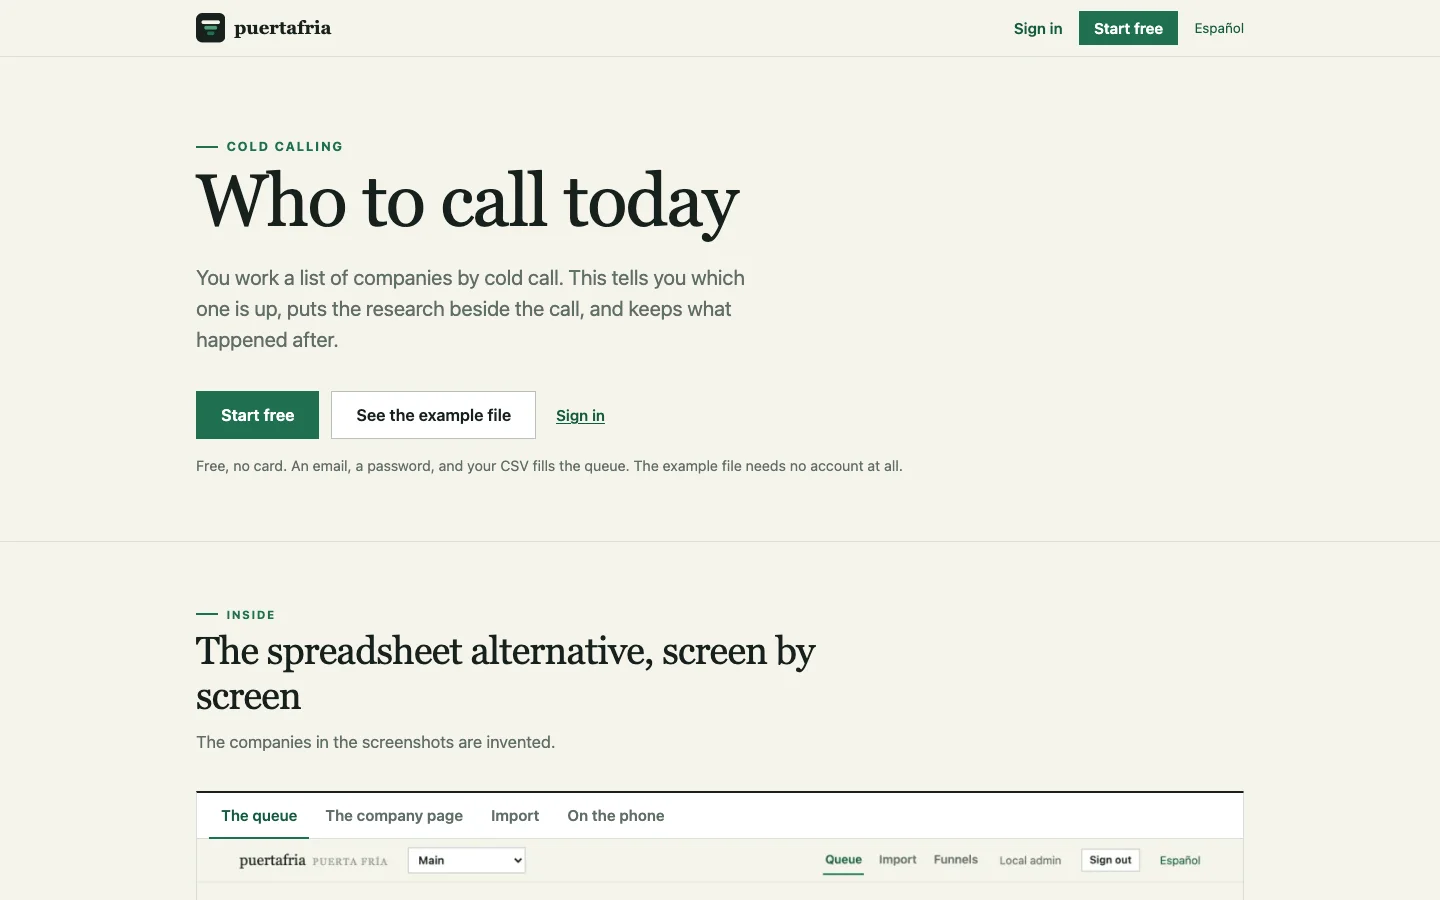
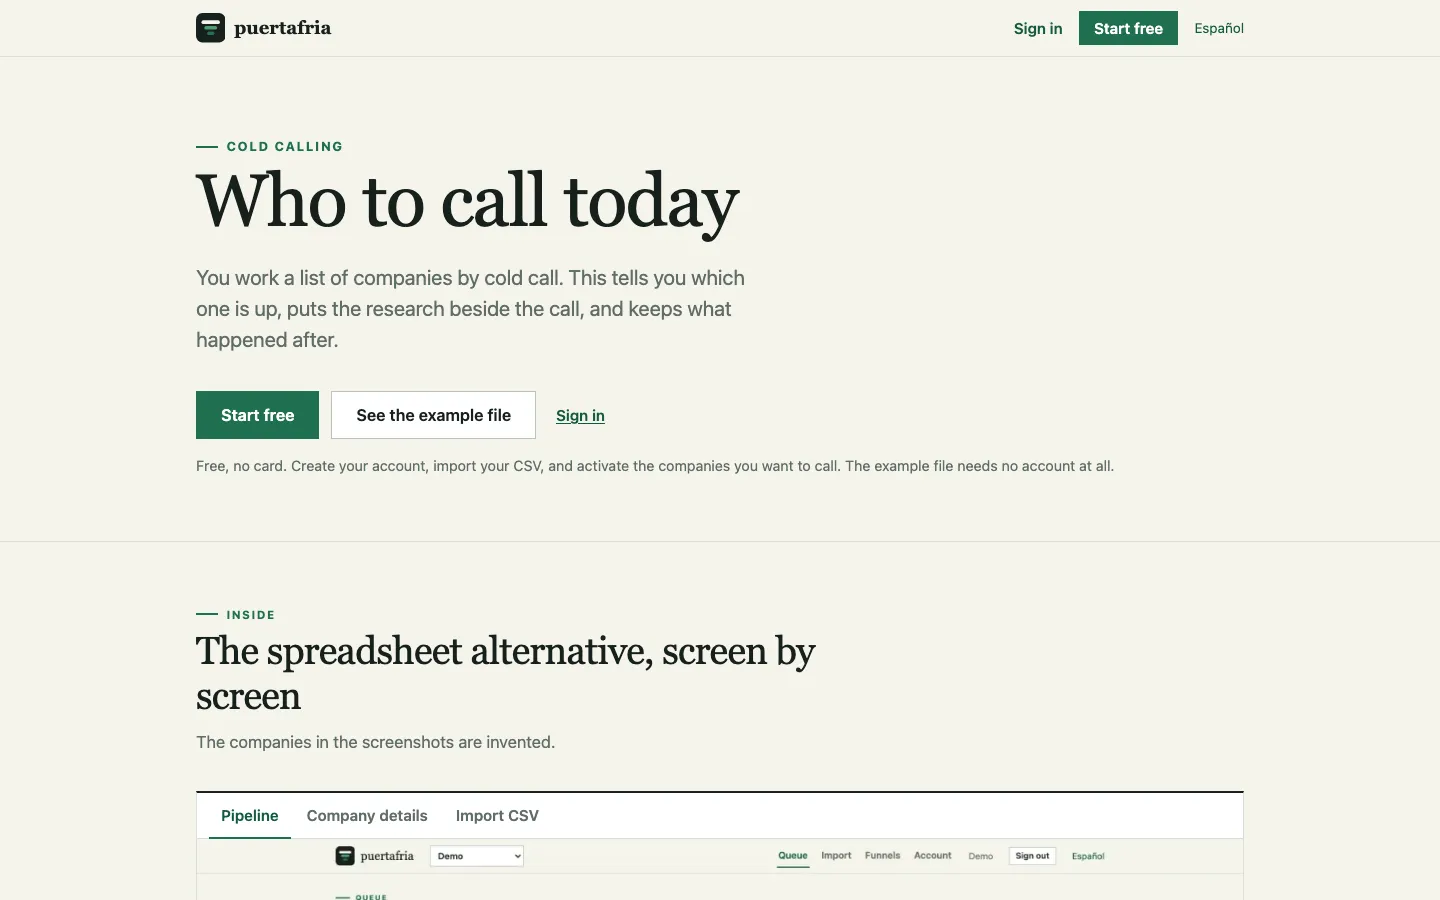
fix(services): recapture the app screenshots from production
Both product shots predated the current landing pages: MIAFORO now
leads with bookings and fees, puertafria ships the pipeline tabs.
Recaptured at 1440x900 in light theme and retuned each crop offset so
the headline and body copy sit inside the visible strip.

Claude-Session: https://claude.ai/code/session_01VExX4evfXjgLt8ZaAf4usy

diff --git a/sass/pages/_web-development-sales.scss b/sass/pages/_web-development-sales.scss
@@ -647,11 +647,11 @@
   }
 
   &--crop-right > img {
-    object-position: 45% top;
+    object-position: 48% top;
   }
 
   &--crop-left > img {
-    object-position: 24% top;
+    object-position: 22% top;
   }
 
   &__body {
